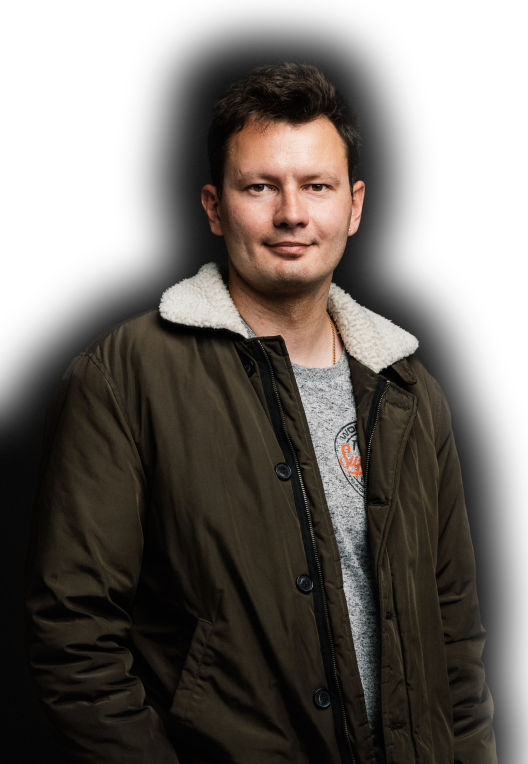
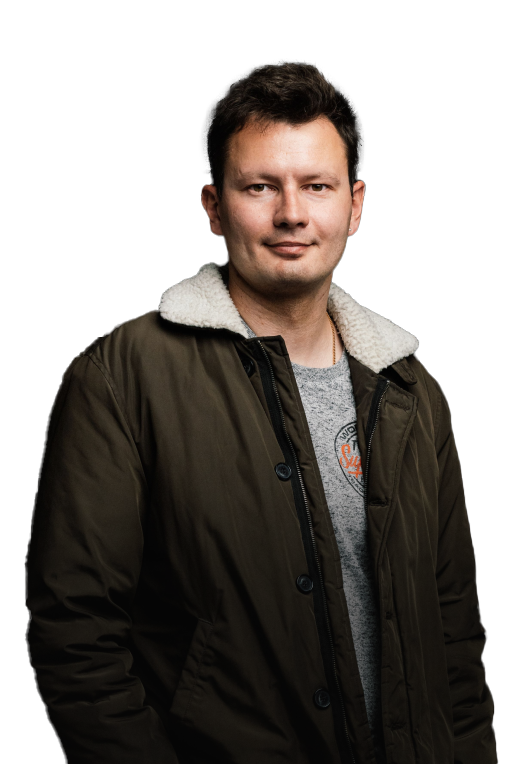
fix: latest deploy: remove angelic glow issue, fix seo

diff --git a/components/Hero.tsx b/components/Hero.tsx
@@ -16,7 +16,7 @@ export default function Hero() {
               <span className={styles.title}>Aliaksandr "Sasha" Hudzilin</span>
             </div>
             <div className={styles.content}>
-              <img src="/media/hudzilin_4.png" alt="Aliaksandr Hudzilin" style={{ width: '100%', height: '100%' }} />
+              <img src="/media/hudzilin_4.png" alt="Aliaksandr Hudzilin" style={{ width: '100%', height: '100%', backgroundColor: '#000000' }} />
               <div className={styles.textContainer}>
                 <p>Fueling the next wave of visionary entrepreneurs.</p>
               </div>

diff --git a/app/page.tsx b/app/page.tsx
@@ -15,11 +15,11 @@ import Thesis from '@root/components/Thesis';
 export async function generateMetadata({ params, searchParams }) {
   const title = Package.name;
   const description = Package.description;
-  const url = 'https://hudzilin.vc';
+  const url = 'https://sasha.page';
   const handle = '@AliaksandrH';
 
   return {
-    metadataBase: new URL('https://hudzilin.vc'),
+    metadataBase: new URL('https://sasha.page'),
     title,
     description,
     url,

diff --git a/app/sitemap.ts b/app/sitemap.ts
@@ -3,7 +3,7 @@ import { MetadataRoute } from 'next';
 export default function sitemap(): MetadataRoute.Sitemap {
   return [
     {
-      url: 'https://hudzilin.vc',
+      url: 'https://sasha.page',
       lastModified: new Date(),
     },
   ];
